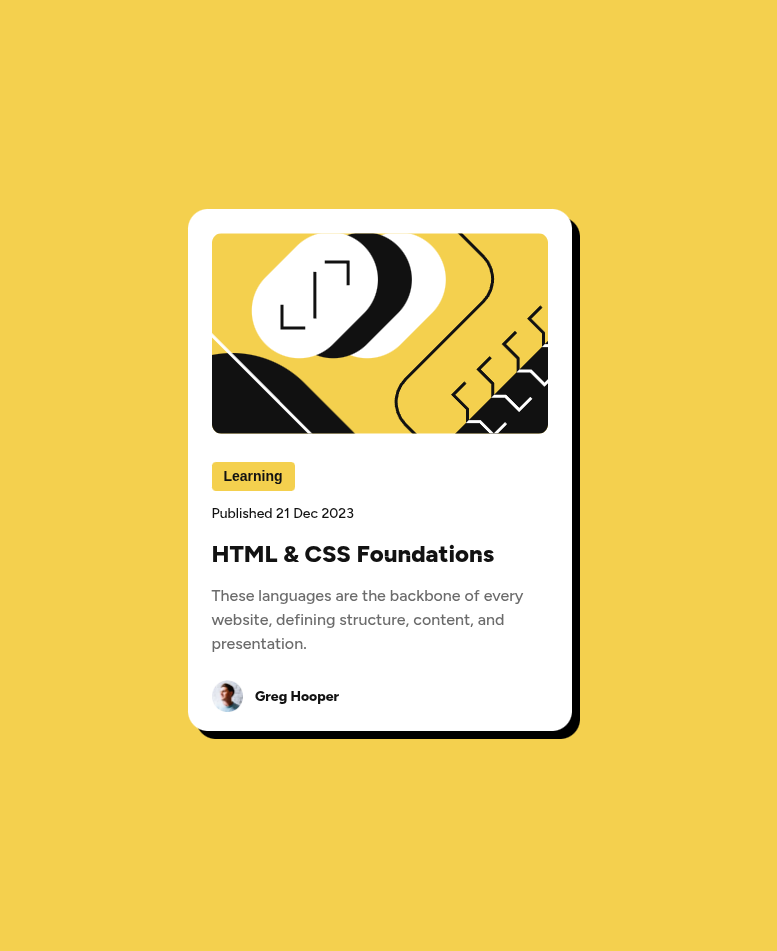
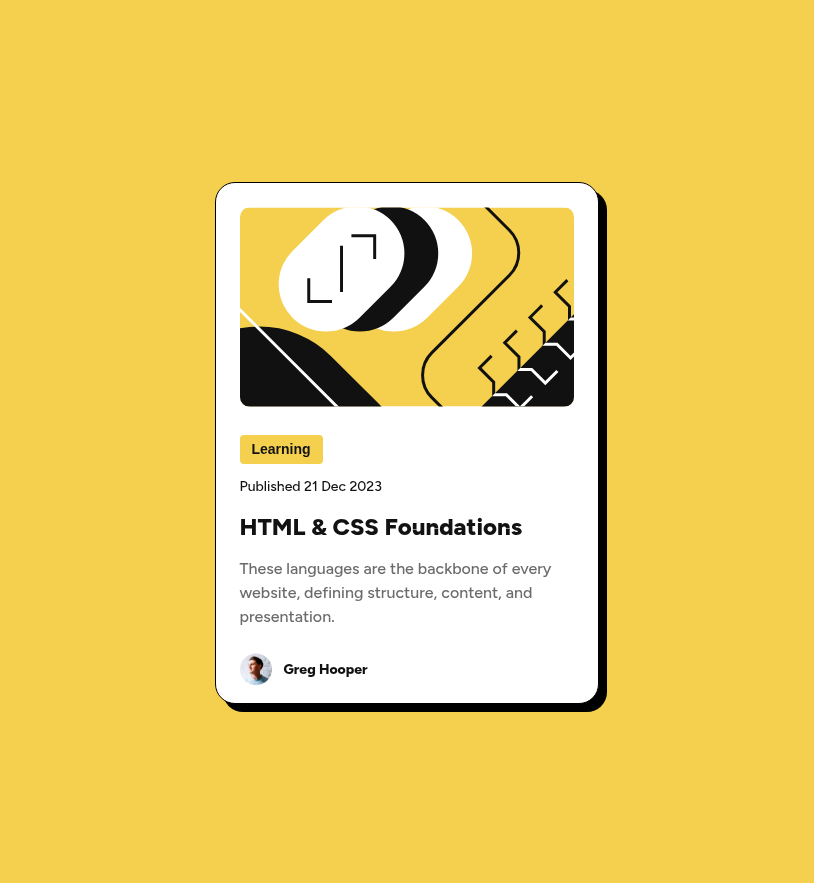
Update alt text and add explicit widths and heights to images.

Changed region(s): [[0.2162, 0.1835, 0.7722, 0.8256]]

diff --git a/index.html b/index.html
@@ -12,7 +12,7 @@
 <body>
 <main>
 	<div class="card">
-		<img class="article-img" src="./assets/images/illustration-article.svg" alt="Article Illustration">
+		<img class="article-img" src="./assets/images/illustration-article.svg" alt="SVG image of interlocking shapes" width="334" height="200">
 		<button class="text-preset-3 bold" type="button">Learning</button>
 		<p class="pub-date text-preset-3">Published 21 Dec 2023</p>
 		<h1 class="text-preset-1 mb-12">HTML & CSS Foundations</h1>
@@ -20,7 +20,7 @@
 			These languages are the backbone of every website, defining structure, content, and presentation.
 		</p>
 		<div class="author-container">
-			<img src="./assets/images/image-avatar.webp" alt="Author Avatar">
+			<img src="./assets/images/image-avatar.webp" alt="Author Avatar" width="32" height="32">
 			<p class="text-preset-3 bold ml-12">Greg Hooper</p>
 		</div>
 	</div>
